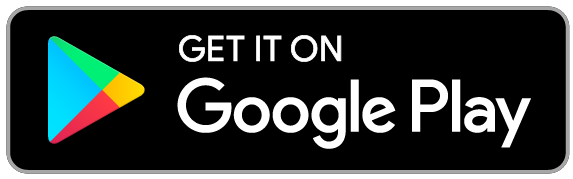
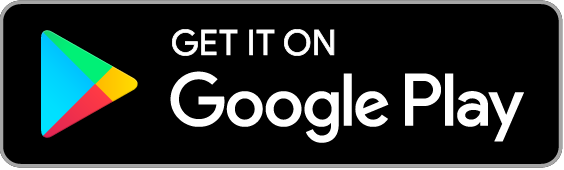
:bento: Updating README.md

diff --git a/README.md b/README.md
@@ -1,93 +1,106 @@
-<div align="center">
-    <img src="assets/readme/logo.png" width="300" height="300" alt="logo" />
-</div>
+<h1 align="center">TUS CLASS(Unofficial)</h1> <br>
+<p align="center">
+  <img alt="logo" title="logo" src="assets/readme/logo.png" width="200">
+</p>
 
-# <div align="center">TUS CLASS(Unofficial)</div>
-<div align="center">TUS CLASS front-end APP</div>
-<div align="center">Made with ❤ and Flutter</div>
-<br />
-<div align="center">
-    <a href="https://flutter.io">
-        <img src="https://img.shields.io/badge/Platform-Flutter-green.svg" alt="Platform" />
-    </a>
-    <a href="https://dart.dev/">
-        <img src="https://img.shields.io/badge/dart-2.7.1-blue.svg" alt="dart" />
-    </a>
-    <img src="https://img.shields.io/badge/Version-beta 0.0.8+4-orange.svg" alt="Version" />
-    <img src="https://img.shields.io/badge/license-MIT-blue.svg" alt="LICENSE" />
-</div>
-<br />
+<p align="center">
+  TUS CLASS Front-end APP <br>
+  Made with ❤ and Flutter
+</p>
 
-## Installation
+<p align="center">
+  <a href="https://apps.apple.com/jp/app/tus-class-%E9%9D%9E%E5%85%AC%E5%BC%8F/id1513692491">
+    <img alt="Download on the App Store" title="App Store" src="assets/readme/apple_store_download.png" width="140px">
+  </a>
 
-<a href='https://play.google.com/store/apps/details?id=com.huhu.tusclass'><img alt='Get it on Google Play' src='assets/readme/google_play_download.png' height=90px/></a>
-<a href='https://apps.apple.com/jp/app/tus-class-%E9%9D%9E%E5%85%AC%E5%BC%8F/id1513692491'><img alt='Get it on Apple Store' src='assets/readme/apple_store_download.png' height=90px/></a>
+  <a href="https://play.google.com/store/apps/details?id=com.huhu.tusclass">
+    <img alt="Get it on Google Play" title="Google Play" src="assets/readme/google_play_download.png" width="140px">
+  </a>
+</p>
+
+## Table of Contents
+
+- [Table of Contents](#table-of-contents)
+- [Introduction](#introduction)
+- [Features](#features)
+- [Issues](#issues)
+  - [Known bugs / issues](#known-bugs--issues)
+- [Contributing](#contributing)
+- [FAQs](#faqs)
+- [Todo](#todo)
+- [License](#license)
 
 ## Introduction
 
-A front-end APP for [TUS CLASS](https://class.admin.tus.ac.jp/up/faces/login/Com00501A.jsp). This Project is only for Tokyo University of Science students. Powered by [Flutter](https://flutter.dev/), support for both **iOS** and **Android**.
+[![Platform](https://img.shields.io/badge/Platform-Flutter-green.svg)](https://flutter.io)
+![Version](https://img.shields.io/badge/Version-0.1.2+11-orange.svg)
+[![License](https://img.shields.io/badge/license-MIT-blue.svg)](https://choosealicense.com/licenses/mit/)
 
-:exclamation: !Important: **Only the Faculty of Engineering is currently tested**. There may be a lot of places without adaptation! We need data to fix, please help us.
+A ront-end APP for [TUS CLASS](https://class.admin.tus.ac.jp/up/faces/login/Com00501A.jsp). This project is only for Tokyo University of Science students. Powered by [Flutter](https://flutter.dev/)
 
-![Demo](assets/readme/demo.jpg)
+**Available for both iOS and Android.**
+
+<p align="center">
+  <img src = "assets/readme/iphone-white.png" width=300>
+</p>
+
 
 ## Features
 
-- Messages
-  - PDF files
-  - Other files (if your have APP supports)
-  - Entry
-- Timetable
+- 📨Messages
+  - 📕PDF files
+  - 📚Other files (if your have APP supports)
+  - 🎈Entry
+- 📅Timetable
   - Attendance Rate
-- Grades
-- Grade Search
-- Syllabus
-- Syllabus Search
-- Auto Login
+- 🏆Grades
+- 🔎Grade Search
+- 📝Syllabus
+- 🔎Syllabus Search
+- 🔐Auto Login
+
+![Demo](assets/readme/demo.jpg)
 
 ## Issues
 
-please test if the app works fine. If you meet any bugs or issues, please contact with developer, or file an issue and describe what operation caused the bugs.
+> :exclamation: **Important**: Only the Faculty of Engineering is currently tested. There may be a lot of places without adaptation!
 
-Please file any issues, bugs, or feature requests in the [Issues](https://github.com/huhugiter/TUS_CLASS/issues). Thx :kissing_heart:
+If you meet any bugs or issues, please contact with developer, or file an issue and describe what operation caused the bugs.Please file any issues, bugs, or feature requests in the [Issues](https://github.com/huhugiter/TUS_CLASS/issues). Thx :kissing_heart:
 
 ### Known bugs / issues
 
-- For each subject, the form of the timetable is slightly **different** and needs to be implemented (not finish)
+- For each subject, the form of the timetable may slightly **different** and needs to be implemented
 - Because the website is “single-threaded" (you can't back or move forward), be sure to wait for the loading to complete (e.g. timetable will only load once and be cached)
+
+## Contributing
+
+Pull requests are welcome. For major changes, please open an issue first to discuss what you would like to change.
+
+Please make sure to update tests as appropriate.
 
 ## FAQs
 
-### How this APP work
+- **How this APP work**
+  - Fetching data from CLASS using regular expression, and simulate web page submission.
+- **How to configure schedule**
+  - By longpressing the cell in table.
+- **Can't search**
+  - Tap the textfield, the keyboard will popup, then tap finish or search key on keyboard
+- **How this APP store my password**
+  - Using Flutter package: [flutter_secure_storage](https://pub.dartlang.org/packages/flutter_secure_storage)
+    - Keychain is used for iOS
+    - AES encryption is used for Android. AES secret key is encrypted with RSA and RSA key is stored in KeyStore
+  - Note KeyStore was introduced in Android 4.3 (API level 18). The plugin wouldn't work for earlier versions.
 
-Fetching data from CLASS using regular expression, and simulate web page submission.
-
-### How to configure schedule
-
-By longpressing the cell in table.
-
-### Can't search
-
-Tap the textfield, the keyboard will popup, then tap finish or search key on keyboard
-
-### How this APP store my password
-
-Using Flutter package: [flutter_secure_storage](https://pub.dartlang.org/packages/flutter_secure_storage)
-
-- Keychain is used for iOS
-- AES encryption is used for Android. AES secret key is encrypted with RSA and RSA key is stored in KeyStore
-
-> Note KeyStore was introduced in Android 4.3 (API level 18). The plugin wouldn't work for earlier versions.
-
-## TODO
+## Todo
 
 - [x] I18N
+- [x] Course may have more than one period
 - [ ] Theme
-- [ ] version check
-- [x] course may have more than one period
-- [ ] schedule table cell customize
-- [ ] more user-friendly Exception handle
+- [ ] Version check
+- [ ] Schedule table cell customize
+- [ ] More user-friendly Exception handle
 
 ## License
 
-TUS CLASS(Unofficial) is released under the MIT License
+[MIT](https://choosealicense.com/licenses/mit/)
